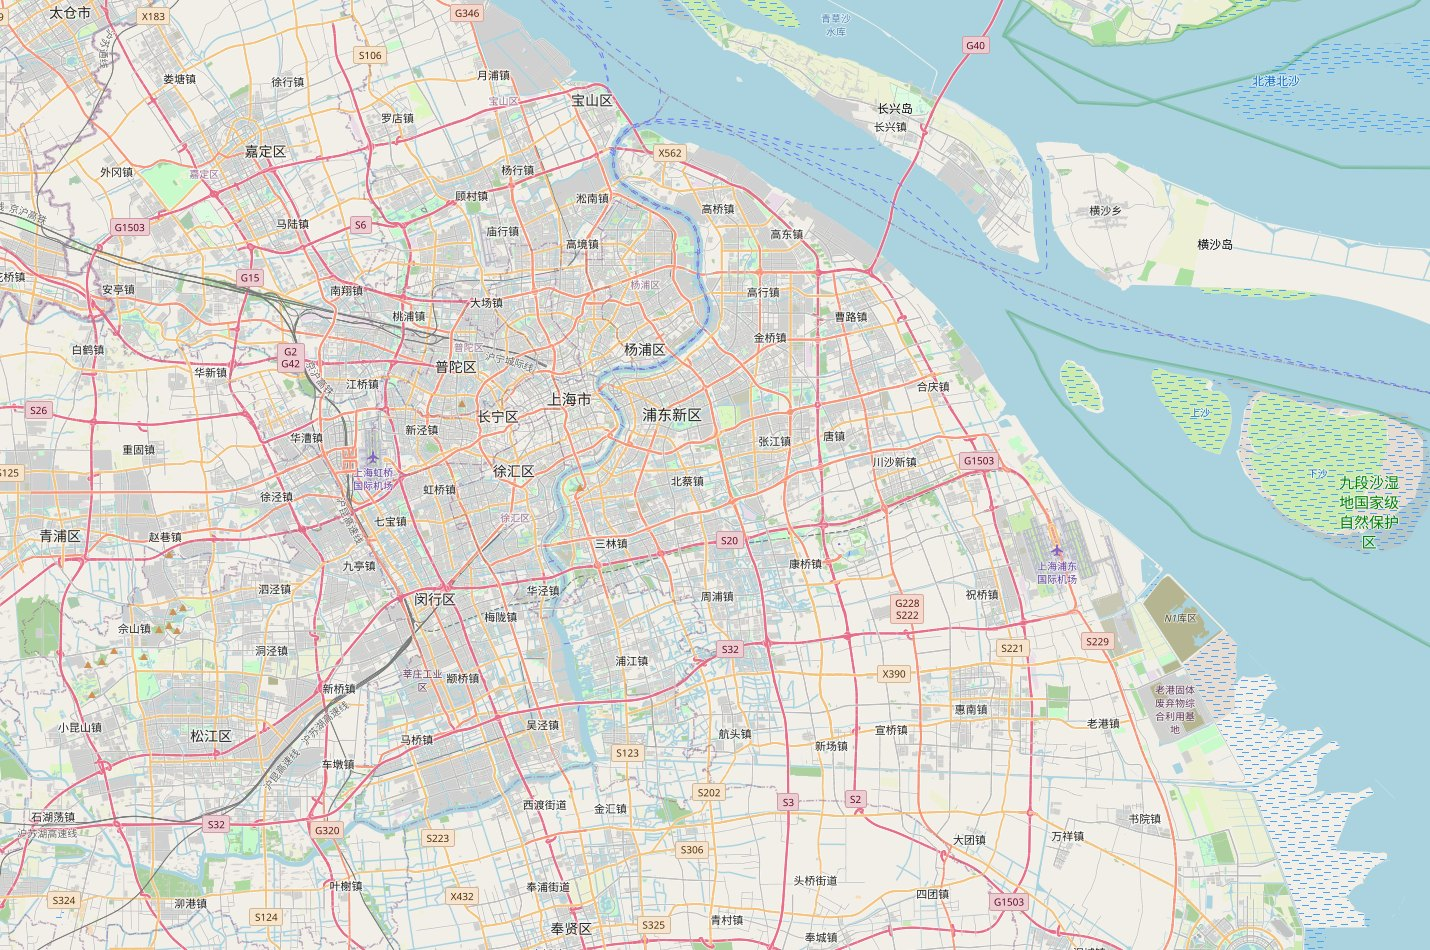
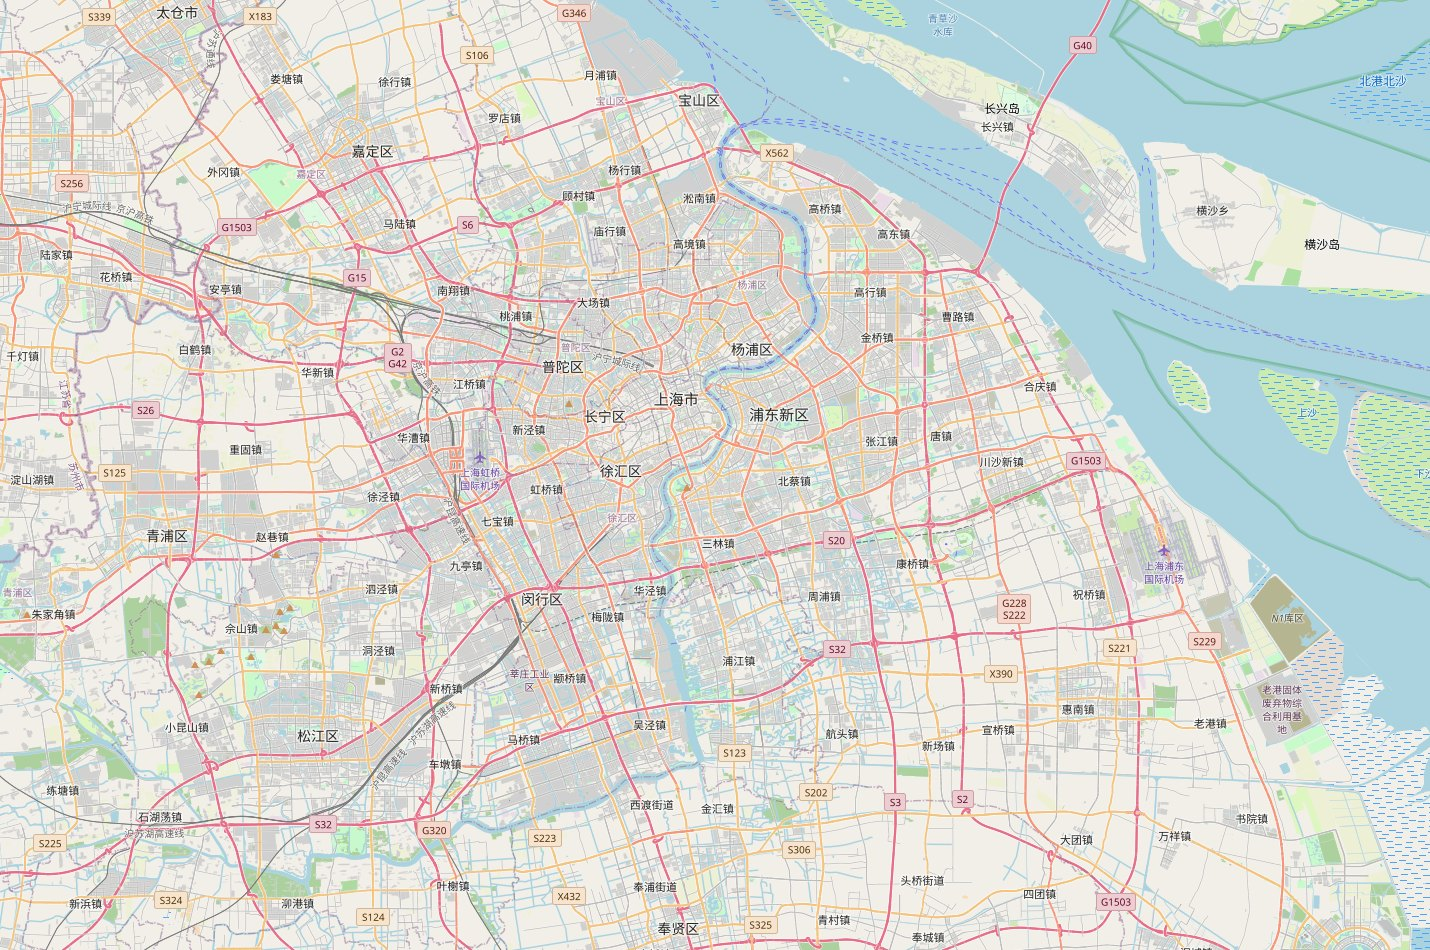
Separate D2-D5 sightseeing routes and improve map labels

diff --git a/上海/地图资源/map-ui.js b/上海/地图资源/map-ui.js
@@ -30,7 +30,7 @@
   function routeList(view) {
     if (view.id === 0 || view.id === 9) {
       const days = data.days.filter(d => view.id === 0 || d.id >= 2 && d.id <= 5);
-      el('list').innerHTML = days.map(d => '<li><a href="#" data-day="' + d.id + '">D' + d.id + ' · ' + esc(d.title) + '</a></li>').join('');
+      el('list').innerHTML = days.map(d => '<li><a href="#" data-day="' + d.id + '">D' + d.id + ' · ' + esc(d.date) + ' · ' + esc(d.title) + '</a></li>').join('');
       return;
     }
     const route = [...new Set(view.description.route)];
@@ -41,7 +41,7 @@
     }).join('');
   }
 
-  function drawPlaces(view) {
+  function updatePlaces(view) {
     const selected = new Set([...document.querySelectorAll('[data-kind]:checked')].map(input => input.dataset.kind));
     currentPins = places.filter(p => (view.id === 9 ? p.days.some(d => d >= 2 && d <= 5) : p.days.includes(view.id)) && selected.has(p.kind));
     el('place-count').textContent = '· ' + currentPins.length + '处候选';
@@ -49,28 +49,127 @@
     el('places-list').innerHTML = currentPins.map((p, i) =>
       '<li><button type="button" data-poi="' + i + '"><span class="key ' + p.kind + '">' + categories[p.kind] + '</span> ' +
       esc(p.name) + '<small>' + esc(p.location) + (p.approximate ? ' · 街区位置' : '') + '</small></button></li>').join('');
-    if (!map) return;
-    placeLayer.clearLayers();
-    currentPins.forEach((p, i) => {
-      const marker = L.marker([p.lat,p.lon], {icon:L.divIcon({
-        className:'', html:'<div class="category-pin ' + p.kind + (p.approximate ? ' approx' : '') + '">' + categories[p.kind] + '</div>',
-        iconSize:[28,28], iconAnchor:[14,14]})});
-      marker.bindPopup('<b>' + esc(p.name) + '</b><br>' + esc(p.location) + '<br>' + esc(p.tip) +
-        (p.approximate ? '<br><b>街区位置，非店门口</b>' : '<br>地图POI近似转换；入口按导航') +
-        '<br><a target="_blank" rel="noopener" href="' + esc(search(p.name,p.location)) + '">高德搜索门店</a>' +
-        ' · <a target="_blank" rel="noopener" href="' + esc(p.source) + '">位置来源</a>');
-      marker.addTo(placeLayer);
-      p.marker = marker;
-    });
   }
 
-  function routeMarker(point, index, optional, color) {
-    const html = current > 0 && current < 9
+  // Labels may move a few screen pixels in dense streets. The short leader line
+  // still ends at the mapped coordinate; the route itself never moves.
+  function labelLayout(view) {
+    const occupied = [], size = map.getSize(), margin = 8;
+    const northwest = map.latLngToContainerPoint([view.bounds[1][0],view.bounds[0][1]]);
+    const southeast = map.latLngToContainerPoint([view.bounds[0][0],view.bounds[1][1]]);
+    const limits = {left:Math.max(margin,northwest.x+4),top:Math.max(margin,northwest.y+4),
+      right:Math.min(size.x-margin,southeast.x-4),bottom:Math.min(size.y-margin,southeast.y-4)};
+    return (lat, lon, width, height) => {
+      const anchor = map.latLngToContainerPoint([lat, lon]);
+      const step = Math.max(width, height) + 7;
+      const offsets = [];
+      for (let gx = -4; gx <= 4; gx++) for (let gy = -4; gy <= 4; gy++)
+        offsets.push([gx*step,gy*step]);
+      offsets.sort((a,b) => Math.hypot(...a)-Math.hypot(...b));
+      let choice, lowest = Infinity;
+      for (const [dx,dy] of offsets) {
+        const x = anchor.x + dx, y = anchor.y + dy;
+        const rect = {left:x-width/2-4,right:x+width/2+4,top:y-height/2-4,bottom:y+height/2+4};
+        const overlap = occupied.reduce((sum, other) => sum +
+          Math.max(0,Math.min(rect.right,other.right)-Math.max(rect.left,other.left)) *
+          Math.max(0,Math.min(rect.bottom,other.bottom)-Math.max(rect.top,other.top)),0);
+        const edge = Math.max(0,limits.left-rect.left)+Math.max(0,rect.right-limits.right)+
+          Math.max(0,limits.top-rect.top)+Math.max(0,rect.bottom-limits.bottom);
+        const score = overlap * 10000 + edge * 1000 + Math.hypot(dx,dy);
+        if (score < lowest) {lowest=score;choice={x,y,rect,shifted:dx!==0||dy!==0};}
+        if (overlap === 0 && edge === 0) break;
+      }
+      occupied.push(choice.rect);
+      return {position:map.containerPointToLatLng([choice.x,choice.y]),shifted:choice.shifted};
+    };
+  }
+
+  function leader(group, actual, placed, color) {
+    if (placed.shifted) L.polyline([actual,placed.position],
+      {color,weight:1.5,opacity:.82,interactive:false}).addTo(group);
+  }
+
+  function routeMarker(point, index, optional, color, placed, lodging = false) {
+    const html = lodging ? '<div class="lodging-pin">住</div>' : current > 0 && current < 9
       ? '<div class="route-pin' + (optional ? ' optional' : '') + '" style="' + (optional ? '' : 'background:' + color) + '">D' + current + '<b>' + index + '</b></div>'
-      : '<div class="overview-pin">' + ['D1','住','D6','D7','D8'][index-1] + '</div>';
-    return L.marker([point.lat,point.lon], {icon:L.divIcon({className:'',html,iconSize:[42,38],iconAnchor:[21,19]})})
+      : '<div class="overview-pin' + (current === 0 && index === 2 ? ' city-base' : '') + '">' + (current === 10
+        ? ['入口','热力','海盗','飞越','极速'][index-1]
+        : ['D1','D2–5','D6','D7'][index-1]) + '</div>';
+    const dims = lodging ? [28,28] : current > 0 && current < 9 ? [42,38]
+      : current === 0 && index === 2 ? [50,28] : [36,28];
+    return L.marker(placed.position, {zIndexOffset:1000,icon:L.divIcon({className:'',html,iconSize:dims,iconAnchor:[dims[0]/2,dims[1]/2]})})
       .bindTooltip(point.name,{direction:'top',className:'map-caption'})
-      .bindPopup('<b>' + esc(point.name) + '</b><br>' + esc(point.tip) + '<br><small>' + esc(point.coordinate_status) + '</small><br><a target="_blank" rel="noopener" href="' + esc(search(point.name,'')) + '">高德搜索</a>');
+      .bindPopup('<b>' + esc(point.name) + '</b><br>' + esc(point.tip) + '<br><small>' + esc(point.coordinate_status) + '</small>' +
+        (placed.shifted ? '<br>编号略作偏移，细线指向景点位置。' : '') +
+        '<br><a target="_blank" rel="noopener" href="' + esc(search(point.name,'')) + '">高德搜索</a>');
+  }
+
+  function groupedPins() {
+    if (!matchMedia('(max-width:520px)').matches)
+      return currentPins.map(p => [p]);
+    const groups = [];
+    currentPins.forEach(p => {
+      const point = map.latLngToContainerPoint([p.lat,p.lon]);
+      const near = groups.find(group => group[0].kind === p.kind && group.some(q => {
+        const other = map.latLngToContainerPoint([q.lat,q.lon]);
+        return point.distanceTo(other) < 46;
+      }));
+      if (near) near.push(p); else groups.push([p]);
+    });
+    return groups;
+  }
+
+  function singlePlacePopup(p) {
+    return '<b>' + esc(p.name) + '</b><br>' + esc(p.location) + '<br>' + esc(p.tip) +
+      (p.approximate ? '<br><b>街区位置，非店门口</b>' : '<br>地图POI近似转换；入口按导航') +
+      '<br><a target="_blank" rel="noopener" href="' + esc(search(p.name,p.location)) + '">高德搜索门店</a>' +
+      ' · <a target="_blank" rel="noopener" href="' + esc(p.source) + '">位置来源</a>';
+  }
+
+  function renderMarkers(view) {
+    if (!map) return;
+    routes.clearLayers();
+    placeLayer.clearLayers();
+    const place = labelLayout(view);
+    view.routes.forEach(line => L.polyline(line.route.map(k => [data.points[k].lat,data.points[k].lon]),
+      {color:line.color,weight:4,dashArray:'8 6',opacity:.88}).addTo(routes));
+    if (view.id === 9) view.routes.forEach((line,i) => {
+      const p = data.points[line.route[0]], placed = place(p.lat,p.lon,36,26);
+      leader(routes,[p.lat,p.lon],placed,line.color);
+      L.marker(placed.position,{zIndexOffset:1000,icon:L.divIcon({className:'',
+        html:'<div class="day-label">D'+(i+2)+'</div>',iconSize:[36,26],iconAnchor:[18,13]})}).addTo(routes);
+    });
+    const keys = view.id === 0 ? ['sha','hotel','b','disney'] : view.id === 8 ? ['b'] : view.id === 9 ? [] : view.keys;
+    const main = new Set(view.routes.flatMap(r => r.route));
+    keys.forEach((key,i) => {
+      const lodging = view.id >= 2 && view.id <= 5 && key === 'hotel';
+      const p = data.points[key], dims = lodging ? [28,28]
+        : view.id === 0 ? key === 'hotel' ? [50,28] : [36,28] : [42,38];
+      const placed = place(p.lat,p.lon,...dims), color = view.id >= 1 && view.id <= 8 ? data.colors[view.id-1] : '#0f766e';
+      leader(routes,[p.lat,p.lon],placed,color);
+      routeMarker(p,lodging ? 0 : i + (view.id >= 2 && view.id <= 5 ? 0 : 1),
+        !main.has(key),color,placed,lodging).addTo(routes);
+    });
+    groupedPins().forEach(group => {
+      const p = group[0], count = group.length;
+      const actual = [group.reduce((sum,item) => sum+item.lat,0)/count,
+        group.reduce((sum,item) => sum+item.lon,0)/count];
+      const width = count > 1 ? 38 : 28;
+      const placed = place(actual[0],actual[1],width,28);
+      leader(placeLayer,actual,placed,'#69756f');
+      const label = count > 1 ? categories[p.kind] + count : categories[p.kind];
+      const name = count > 1 ? '附近'+count+'家'+({food:'餐饮',tea:'茶饮',shop:'买手店'}[p.kind]) : p.name;
+      const marker = L.marker(placed.position,{title:name,alt:name,icon:L.divIcon({
+        className:'', html:'<div class="category-pin ' + p.kind + (count > 1 ? ' cluster' : '') + (group.some(item => item.approximate) ? ' approx' : '') + '">' + label + '</div>',
+        iconSize:[width,28], iconAnchor:[width/2,14]})});
+      const popup = count > 1
+        ? '<b>' + esc(name) + '</b><br>放大地图可逐步拆分；清单可查看单店详情。<ul>' + group.map(item =>
+          '<li><a target="_blank" rel="noopener" href="' + esc(search(item.name,item.location)) + '">' + esc(item.name) + '</a> · ' + esc(item.location) + '</li>').join('') + '</ul>'
+        : singlePlacePopup(p);
+      marker.bindPopup(popup + (placed.shifted ? '<br>图标略作偏移，细线指向标注位置。' : ''));
+      marker.addTo(placeLayer);
+      group.forEach(item => {item.marker = marker;});
+    });
   }
 
   function draw(viewId) {
@@ -78,41 +177,28 @@
     const view = views.find(v => v.id === viewId), day = view.description;
     el('day-select').value = viewId >= 1 && viewId <= 8 ? String(viewId) : '';
     document.querySelectorAll('[data-view]').forEach(b => b.classList.toggle('active', Number(b.dataset.view) === viewId));
-    el('title').textContent = day ? 'D' + viewId + ' · ' + view.title : view.title;
+    const date = data.days.find(d => d.id === viewId)?.date;
+    el('title').textContent = day ? 'D' + viewId + ' · ' + (date ? date + ' · ' : '') + view.title : view.title;
     el('pace').textContent = day ? day.pace : viewId === 9 ? 'D2–D5分街区走，每天只选一片。' : '选择日期，查看当天路线与顺路吃逛。';
-    el('mode').textContent = day ? day.mode : '虚线只表示游玩顺序，跨区乘车；A/B为待选住宿区域。';
+    el('mode').textContent = day ? day.mode : viewId === 9
+      ? '四种颜色各是一天的街区游览线；住宿到首站、末站回程另乘车。'
+      : '虚线只表示游玩顺序，跨区乘车；A/B为待选住宿区域。';
     el('meal').textContent = day ? '吃逛建议：' + day.meal : '';
     el('optional').textContent = day?.optional?.length ? '可选替换：' + day.optional.map(k => data.points[k].name).join('；') : '';
     el('source').innerHTML = day ? day.source.map(code => '<a target="_blank" rel="noopener" href="' + esc(data.sources[code]) + '">' + code + '</a>').join('') : '地图与地点取舍见首页研究依据。';
     el('static').href = prefix + view.static;
     el('fallback').src = prefix + view.static;
     routeList(view);
+    updatePlaces(view);
     if (map) {
-      routes.clearLayers();
       if (offline) map.removeLayer(offline);
       offline = L.imageOverlay(prefix + view.background, view.bounds, {attribution:'© <a href="https://www.openstreetmap.org/copyright">OpenStreetMap contributors</a>'}).addTo(map);
       if (el('online').checked) online.bringToFront();
-      view.routes.forEach((line, i) => {
-        L.polyline(line.route.map(k => [data.points[k].lat,data.points[k].lon]),
-          {color:line.color,weight:4,dashArray:'8 6',opacity:.88}).addTo(routes);
-        if (viewId === 9 || viewId === 0) {
-          const d = viewId === 9 ? i + 2 : [1,6,7,8][i];
-          if (viewId === 9) {
-            const p = data.points[line.route[1]];
-            L.marker([p.lat,p.lon], {icon:L.divIcon({className:'',html:'<div class="day-label">D' + d + '</div>',iconSize:[36,26],iconAnchor:[18,13]})}).addTo(routes);
-          }
-        }
-      });
-      const keys = viewId === 0 ? ['sha','hotel','b','disney','pvg'] : viewId === 9 ? [] : view.keys;
-      const main = new Set(view.routes.flatMap(r => r.route));
-      keys.forEach((k, i) => routeMarker(data.points[k], i + 1,
-        !main.has(k), viewId >= 1 && viewId <= 8 ? data.colors[viewId-1] : '#0f766e').addTo(routes));
       map.fitBounds(view.bounds,{padding:[12,12]});
-      requestAnimationFrame(() => map.invalidateSize());
+      requestAnimationFrame(() => {map.invalidateSize();renderMarkers(view);});
     } else {
       el('fallback').style.display = 'block';
     }
-    drawPlaces(view);
   }
 
   el('buttons').innerHTML = [[0,'全程'],[9,'市区 D2–D5'],[10,'园内']].map(([id,title]) =>
@@ -130,9 +216,17 @@
     const button = event.target.closest('[data-poi]');
     if (!button) return;
     const item = currentPins[Number(button.dataset.poi)];
-    if (map) {map.setView([item.lat,item.lon],Math.max(map.getZoom(),15));item.marker.openPopup();}
+    if (map) {
+      const zoom = Math.max(map.getZoom(),15);
+      map.setView([item.lat,item.lon],zoom);
+      L.popup().setLatLng([item.lat,item.lon]).setContent(singlePlacePopup(item)).openOn(map);
+    }
   });
-  document.querySelectorAll('[data-kind]').forEach(input => input.addEventListener('change',() => drawPlaces(views.find(v => v.id === current))));
+  document.querySelectorAll('[data-kind]').forEach(input => input.addEventListener('change',() => {
+    const view = views.find(v => v.id === current);
+    updatePlaces(view);renderMarkers(view);
+  }));
   el('online').addEventListener('change',event => {if (map) event.target.checked ? online.addTo(map) : map.removeLayer(online);});
+  if (map) map.on('zoomend resize',() => renderMarkers(views.find(v => v.id === current)));
   draw(current);
 })();

diff --git a/上海/地图资源/map-ui.css b/上海/地图资源/map-ui.css
@@ -1,4 +1,7 @@
 :root{--ink:#173238;--muted:#5b6c67;--line:#d6dfd8;--paper:#faf8f2}
-*{box-sizing:border-box}body{margin:0;background:var(--paper);color:var(--ink);font:14px/1.55 "Microsoft YaHei",sans-serif}a{color:#0f766e;text-underline-offset:3px}button,select,input{font:inherit}button,select{border:1px solid #c8d5cf;border-radius:8px;background:#fff;color:var(--ink)}button{cursor:pointer;padding:7px 12px}button:focus-visible,select:focus-visible,a:focus-visible,input:focus-visible,summary:focus-visible{outline:3px solid #d49b47;outline-offset:2px}header{background:var(--ink);color:#fff;padding:14px 24px}header h1{font-size:22px;margin:5px 0 2px}header p{color:#d7e6e1;margin:0;font-size:12px}.site-nav{display:flex;gap:18px;font-size:13px}.site-nav a{color:#d7e6e1;text-decoration:none}.site-nav a[aria-current]{color:#fff;border-bottom:1px solid #fff;font-weight:bold}.controls{display:flex;align-items:end;flex-wrap:wrap;gap:12px 20px;padding:11px 18px;background:#eff3ec;border-bottom:1px solid var(--line)}.date-picker{font-weight:bold;min-width:230px;flex:0 1 265px}.date-picker select{display:block;width:100%;padding:9px 10px;margin-top:3px}.view-buttons{display:flex;gap:5px;padding-bottom:2px}.view-buttons button.active{background:#0f766e;color:#fff;border-color:#0f766e}.filters{display:flex;gap:11px;align-items:center;border:0;margin:0;padding:0 0 5px}.filters legend{font-size:11px;color:var(--muted)}.filters label,.online{font-size:12px;white-space:nowrap;cursor:pointer}.filters input{vertical-align:middle}.key{display:inline-grid;place-items:center;width:21px;height:21px;border-radius:6px;color:#fff;font-size:11px;font-weight:bold}.key.food{background:#c4543d}.key.tea{background:#6678b8}.key.shop{background:#ad7b28}.online{padding-bottom:6px}.layout{display:grid;grid-template-columns:minmax(285px,315px) minmax(0,1fr);height:calc(100vh - 183px);min-height:610px}.layout aside{overflow:auto;padding:15px 18px 25px;background:#fff;border-right:1px solid var(--line)}.layout h2{font-size:21px;line-height:1.35;margin:0 0 10px}.eyebrow{font-size:11px;letter-spacing:.07em;color:var(--muted);margin:0 0 5px}#pace{font-weight:bold;margin:8px 0}#mode,.muted{color:var(--muted);font-size:12px}.layout ol{padding-left:25px;margin:15px 0}.layout ol li{padding:3px 0 9px}.layout ol li::marker{font-weight:bold;color:#0f766e}#optional,#meal{font-size:13px;margin:9px 0}#places-panel,.references{margin:15px 0;border-top:1px solid var(--line);padding-top:10px}summary{cursor:pointer;font-weight:600}#places-list{list-style:none;margin:8px 0;padding:0}#places-list li{margin:7px 0}#places-list button{display:block;text-align:left;width:100%;padding:7px 9px;border:1px solid #e1e6dd}#places-list small{display:block;font-size:11px;color:var(--muted)}#place-count{font-weight:normal;font-size:11px;color:var(--muted)}#source{margin-top:8px}#source a{margin-right:7px}.note{background:#f6f1e3;border-radius:8px;padding:9px;font-size:11px;color:#59675d;margin:15px 0}#map{min-width:0;min-height:500px;background:#e6eee8}#fallback{width:100%;display:none}.route-pin{background:#0f766e;color:#fff;border:2px solid #fff;border-radius:13px;padding:2px 4px;min-width:40px;height:38px;text-align:center;line-height:14px;box-shadow:0 1px 6px #52635f;font-size:10px}.route-pin b{display:block;font-size:14px;line-height:16px}.route-pin.optional{background:#fff;color:#0f766e;border-color:#0f766e}.overview-pin{width:36px;height:28px;border-radius:14px;background:#0f766e;color:#fff;text-align:center;line-height:28px;font-size:11px;font-weight:bold;box-shadow:0 1px 5px #52635f}.category-pin{width:28px;height:28px;border:2px solid #fff;border-radius:9px;text-align:center;line-height:24px;color:#fff;font-weight:bold;box-shadow:0 1px 6px #52635f}.category-pin.food{background:#c4543d}.category-pin.tea{background:#6678b8}.category-pin.shop{background:#ad7b28}.category-pin.approx{border-style:dashed}.day-label{padding:3px 7px;background:#173238;color:white;border:2px solid #fff;border-radius:7px;font-weight:bold;white-space:nowrap}.leaflet-popup-content{font:13px/1.55 "Microsoft YaHei",sans-serif}.leaflet-tooltip{font:12px/1.3 "Microsoft YaHei",sans-serif}.map-caption{background:#fff;padding:5px 7px;border-radius:5px;border:1px solid #d3ddd6}
+*{box-sizing:border-box}body{margin:0;background:var(--paper);color:var(--ink);font:14px/1.55 "Microsoft YaHei",sans-serif}a{color:#0f766e;text-underline-offset:3px}button,select,input{font:inherit}button,select{border:1px solid #c8d5cf;border-radius:8px;background:#fff;color:var(--ink)}button{cursor:pointer;padding:7px 12px}button:focus-visible,select:focus-visible,a:focus-visible,input:focus-visible,summary:focus-visible{outline:3px solid #d49b47;outline-offset:2px}header{background:var(--ink);color:#fff;padding:14px 24px}header h1{font-size:22px;margin:5px 0 2px}header p{color:#d7e6e1;margin:0;font-size:12px}.site-nav{display:flex;gap:18px;font-size:13px}.site-nav a{color:#d7e6e1;text-decoration:none}.site-nav a[aria-current]{color:#fff;border-bottom:1px solid #fff;font-weight:bold}.controls{display:flex;align-items:end;flex-wrap:wrap;gap:12px 20px;padding:11px 18px;background:#eff3ec;border-bottom:1px solid var(--line)}.date-picker{font-weight:bold;min-width:230px;flex:0 1 265px}.date-picker select{display:block;width:100%;padding:9px 10px;margin-top:3px}.view-buttons{display:flex;gap:5px;padding-bottom:2px}.view-buttons button.active{background:#0f766e;color:#fff;border-color:#0f766e}.filters{display:flex;gap:11px;align-items:center;border:0;margin:0;padding:0 0 5px}.filters legend{font-size:11px;color:var(--muted)}.filters label,.online{font-size:12px;white-space:nowrap;cursor:pointer}.filters input{vertical-align:middle}.key{display:inline-grid;place-items:center;width:21px;height:21px;border-radius:6px;color:#fff;font-size:11px;font-weight:bold}.key.food{background:#c4543d}.key.tea{background:#6678b8}.key.shop{background:#ad7b28}.online{padding-bottom:6px}.layout{display:grid;grid-template-columns:minmax(285px,315px) minmax(0,1fr);height:calc(100vh - 183px);min-height:610px}.layout aside{overflow:auto;padding:15px 18px 25px;background:#fff;border-right:1px solid var(--line)}.layout h2{font-size:21px;line-height:1.35;margin:0 0 10px}.eyebrow{font-size:11px;letter-spacing:.07em;color:var(--muted);margin:0 0 5px}#pace{font-weight:bold;margin:8px 0}#mode,.muted{color:var(--muted);font-size:12px}.layout ol{padding-left:25px;margin:15px 0}.layout ol li{padding:3px 0 9px}.layout ol li::marker{font-weight:bold;color:#0f766e}#optional,#meal{font-size:13px;margin:9px 0}#places-panel,.references{margin:15px 0;border-top:1px solid var(--line);padding-top:10px}summary{cursor:pointer;font-weight:600}#places-list{list-style:none;margin:8px 0;padding:0}#places-list li{margin:7px 0}#places-list button{display:block;text-align:left;width:100%;padding:7px 9px;border:1px solid #e1e6dd}#places-list small{display:block;font-size:11px;color:var(--muted)}#place-count{font-weight:normal;font-size:11px;color:var(--muted)}#source{margin-top:8px}#source a{margin-right:7px}.note{background:#f6f1e3;border-radius:8px;padding:9px;font-size:11px;color:#59675d;margin:15px 0}#map{min-width:0;min-height:500px;background:#e6eee8}#fallback{width:100%;display:none}.route-pin{background:#0f766e;color:#fff;border:2px solid #fff;border-radius:13px;padding:2px 4px;min-width:40px;height:38px;text-align:center;line-height:14px;box-shadow:0 1px 6px #52635f;font-size:10px}.route-pin b{display:block;font-size:14px;line-height:16px}.route-pin.optional{background:#fff;color:#0f766e;border-color:#0f766e}.overview-pin{width:36px;height:28px;border-radius:14px;background:#0f766e;color:#fff;text-align:center;line-height:28px;font-size:11px;font-weight:bold;box-shadow:0 1px 5px #52635f}.category-pin{width:28px;height:28px;border:2px solid #fff;border-radius:9px;text-align:center;line-height:24px;color:#fff;font-weight:bold;box-shadow:0 1px 6px #52635f}.category-pin.food{background:#c4543d}.category-pin.tea{background:#6678b8}.category-pin.shop{background:#ad7b28}.category-pin.cluster{width:38px;border-radius:14px;font-size:12px;letter-spacing:.02em}.category-pin.approx{border-style:dashed}.day-label{padding:3px 7px;background:#173238;color:white;border:2px solid #fff;border-radius:7px;font-weight:bold;white-space:nowrap}.leaflet-popup-content{font:13px/1.55 "Microsoft YaHei",sans-serif}.leaflet-tooltip{font:12px/1.3 "Microsoft YaHei",sans-serif}.map-caption{background:#fff;padding:5px 7px;border-radius:5px;border:1px solid #d3ddd6}
 body.embedded header{display:none}body.embedded .layout{height:calc(100vh - 72px)}
 @media(max-width:800px){header{padding:12px 16px}.controls{padding:10px 12px;gap:7px 10px}.date-picker{flex:1 1 100%;min-width:0}.filters{order:3;flex:1 1 100%;justify-content:space-between}.online{order:4}.layout,body.embedded .layout{display:flex;flex-direction:column;height:auto;min-height:0}#map{order:0;height:390px;min-height:0}.layout aside{order:1;overflow:visible;border-right:0;border-top:1px solid var(--line)}.layout ol{display:grid;grid-template-columns:1fr 1fr;gap:3px 14px}#places-list{display:grid;grid-template-columns:1fr 1fr;gap:0 8px}.site-nav{gap:14px}}@media(max-width:520px){.layout ol,#places-list{grid-template-columns:1fr}.filters{gap:4px}.filters label{font-size:11px}.view-buttons{flex:1;justify-content:flex-start}}
+/* The lodging reference is separate from the numbered sightseeing route. */
+.lodging-pin{width:28px;height:28px;border-radius:50%;background:#64748b;border:2px solid #fff;color:#fff;text-align:center;line-height:24px;font-size:12px;font-weight:bold;box-shadow:0 1px 5px #52635f}
+.overview-pin.city-base{width:50px}
